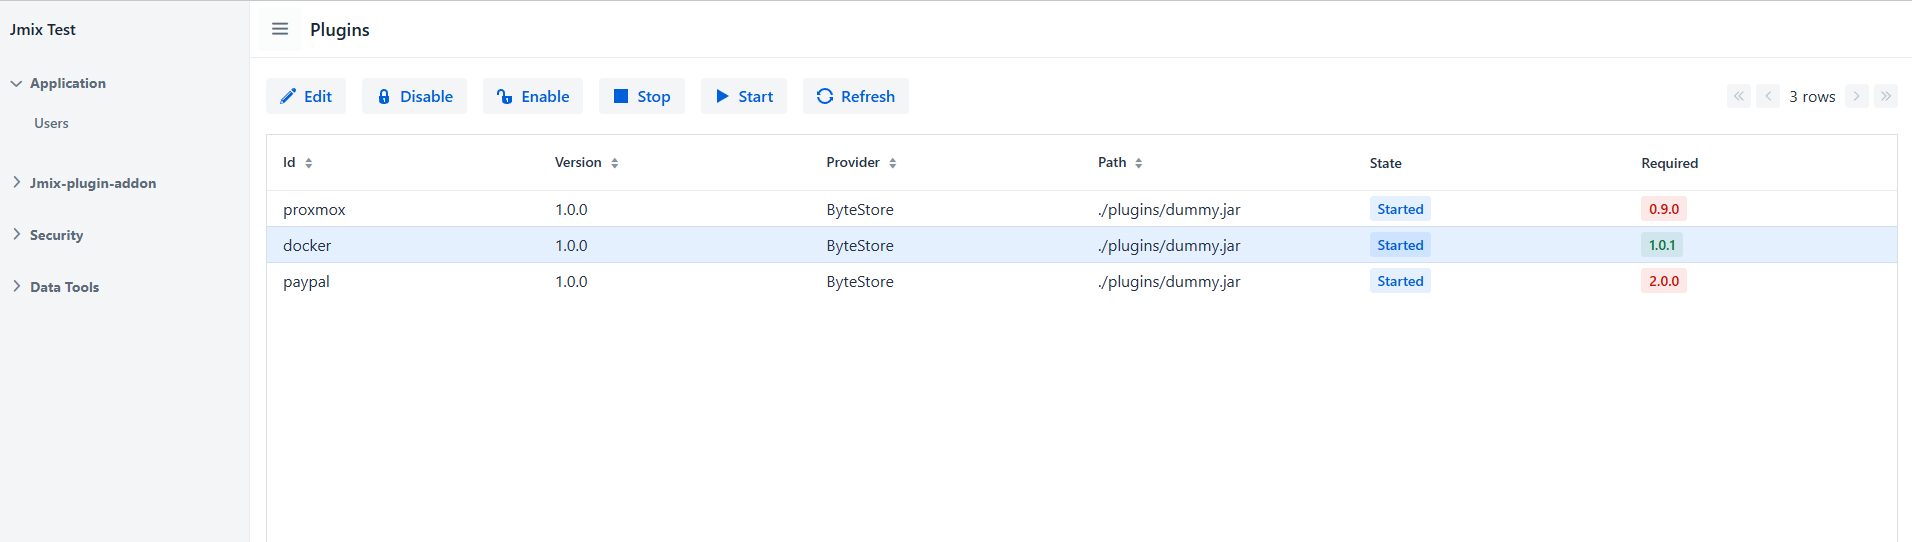
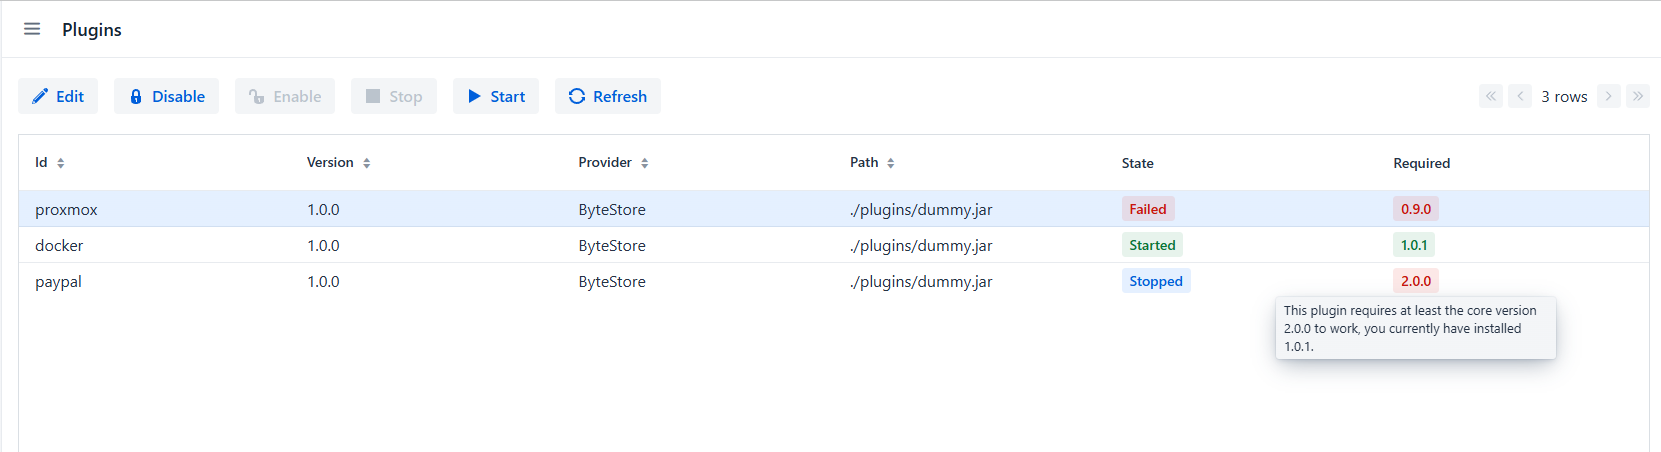
Add dummy mode check to PluginService and update README
Introduced a `isDummyMode` method to toggle dummy plugin behavior, improving flexibility. Updated affected methods in `PluginService` to respect this condition. Additionally, fixed image links in `README.md` for better clarity and usability.

diff --git a/plugin/src/main/java/de/bytestore/plugin/service/PluginService.java b/plugin/src/main/java/de/bytestore/plugin/service/PluginService.java
@@ -230,9 +230,11 @@ public class PluginService {
             listIO.add(this.castPlugin(pluginWrapper));
         }
 
-        listIO.add(getDummyPlugin("proxmox", "0.9.0", de.bytestore.plugin.entity.PluginState.FAILED));
-        listIO.add(getDummyPlugin("docker", "1.0.1", de.bytestore.plugin.entity.PluginState.STARTED));
-        listIO.add(getDummyPlugin("paypal", "2.0.0", de.bytestore.plugin.entity.PluginState.STOPPED));
+        if (this.isDummyMode()) {
+            listIO.add(getDummyPlugin("proxmox", "0.9.0", de.bytestore.plugin.entity.PluginState.FAILED));
+            listIO.add(getDummyPlugin("docker", "1.0.1", de.bytestore.plugin.entity.PluginState.STARTED));
+            listIO.add(getDummyPlugin("paypal", "2.0.0", de.bytestore.plugin.entity.PluginState.STOPPED));
+        }
 
         return listIO;
     }
@@ -257,6 +259,18 @@ public class PluginService {
         pluginIO.setRequires(versionIO);
 
         return pluginIO;
+    }
+
+    /**
+     * Checks if the application is running in dummy mode.
+     *
+     * The method retrieves the property value associated with "plugins.dummy"
+     * and returns it as a boolean. If the property is not defined, it defaults to false.
+     *
+     * @return true if dummy mode is enabled, false otherwise
+     */
+    public boolean isDummyMode() {
+        return environment.getProperty("plugins.dummy", Boolean.class, false);
     }
 
     /**
@@ -288,8 +302,10 @@ public class PluginService {
      */
     public Plugin getPluginCasted(Object id) {
         if (id instanceof String) {
-            return getDummyPlugin("proxmox", "1.0.0", de.bytestore.plugin.entity.PluginState.STARTED);
-            //return castPlugin(getPlugin((String) id));
+            if (this.isDummyMode())
+                return getDummyPlugin("proxmox", "1.0.0", de.bytestore.plugin.entity.PluginState.STARTED);
+            else
+                return castPlugin(getPlugin((String) id));
         }
 
         return null;

diff --git a/README.md b/README.md
@@ -54,9 +54,9 @@ plugins.version.exact=true
 
 ## Screenshots
 
-![img.png](list-view.png)
+![List View](assets/img/list-view.png)
 
-![img_1.png](detail-view.png)
+![Detail View](assets/img/detail-view.png)
 
 Shield: [![CC BY-NC 4.0][cc-by-nc-shield]][cc-by-nc]
 
